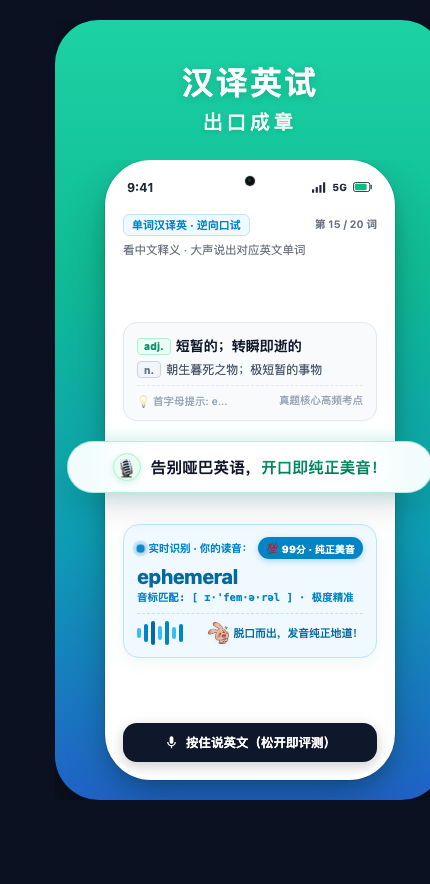
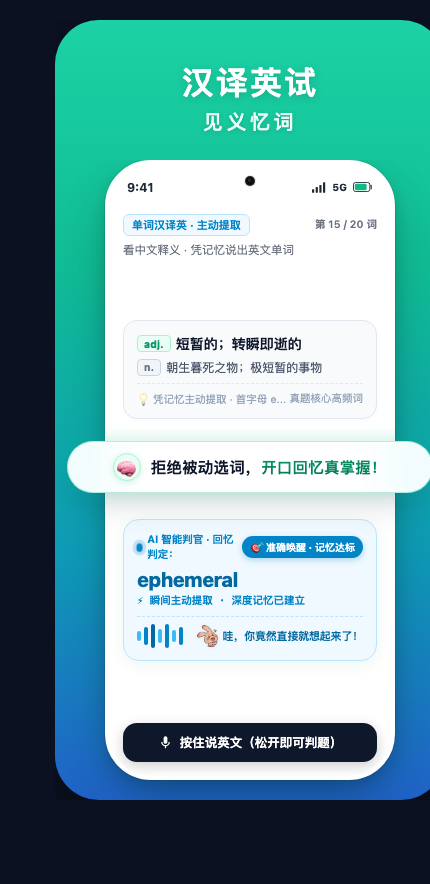
feat: update app store screen 7 preview copy and assets for active vocabulary recall

diff --git a/design/ui/app_store_minimal_clean_preview.html b/design/ui/app_store_minimal_clean_preview.html
@@ -1480,11 +1480,11 @@
         </div>
       </div>
 
-      <!-- 海报 7: 汉译英试 · 出口成章 -->
+      <!-- 海报 7: 汉译英试 · 见义忆词 -->
       <div class="poster-card" id="card-7">
         <div class="poster-header">
           <h2 class="p-title" id="p7-title">汉译英试</h2>
-          <div class="p-subtitle" id="p7-sub">出口成章</div>
+          <div class="p-subtitle" id="p7-sub">见义忆词</div>
         </div>
 
         <div class="poster-phone-stage">
@@ -1503,10 +1503,10 @@
               <div class="sentence-trans-stage">
                 <div>
                   <div style="display: flex; justify-content: space-between; align-items: center;">
-                    <span style="font-size: 11px; color: #0284C7; font-weight: 700; background: #F0F9FF; border: 1px solid #BAE6FD; padding: 2px 8px; border-radius: 6px;">单词汉译英 · 逆向口试</span>
+                    <span style="font-size: 11px; color: #0284C7; font-weight: 700; background: #F0F9FF; border: 1px solid #BAE6FD; padding: 2px 8px; border-radius: 6px;">单词汉译英 · 主动提取</span>
                     <span style="font-size: 10.5px; color: #6B7280; font-weight: 600;">第 15 / 20 词</span>
                   </div>
-                  <div style="font-size: 11.5px; color: #6B7280; margin-top: 6px;">看中文释义 · 大声说出对应英文单词</div>
+                  <div style="font-size: 11.5px; color: #6B7280; margin-top: 6px;">看中文释义 · 凭记忆说出英文单词</div>
                 </div>
 
                 <!-- 题目：中文释义卡片 -->
@@ -1520,19 +1520,19 @@
                     <span style="font-size: 12px; color: #475569;">朝生暮死之物；极短暂的事物</span>
                   </div>
                   <div style="margin-top: 7px; padding-top: 6px; border-top: 1px dashed #E2E8F0; display: flex; justify-content: space-between; align-items: center; font-size: 10.5px; color: #94A3B8;">
-                    <span>💡 首字母提示: e...</span>
-                    <span>真题核心高频考点</span>
+                    <span>💡 凭记忆主动提取 · 首字母 e...</span>
+                    <span>真题核心高频词</span>
                   </div>
                 </div>
 
-                <!-- 语音发音与英文评测卡片 -->
+                <!-- 语音作答与智能裁判卡片 -->
                 <div class="sentence-asr-result-card" style="background: #F0F9FF; border-color: #BAE6FD;">
                   <div style="display: flex; justify-content: space-between; align-items: center;">
                     <div style="display: flex; align-items: center; gap: 5px;">
                       <span class="asr-live-dot" style="background: #0284C7; box-shadow: 0 0 0 3px rgba(2, 132, 199, 0.2);"></span>
-                      <span style="font-size: 10.5px; color: #0284C7; font-weight: 700;">实时识别 · 你的读音：</span>
+                      <span style="font-size: 10.5px; color: #0284C7; font-weight: 700;">AI 智能判官 · 回忆判定：</span>
                     </div>
-                    <span class="score-badge" style="background: #0284C7; box-shadow: 0 2px 6px rgba(2, 132, 199, 0.3); white-space: nowrap;">💯 99分 · 纯正美音</span>
+                    <span class="score-badge" style="background: #0284C7; box-shadow: 0 2px 6px rgba(2, 132, 199, 0.3); white-space: nowrap;">🎯 准确唤醒 · 记忆达标</span>
                   </div>
 
                   <div style="margin: 6px 0 4px;">
@@ -1540,7 +1540,7 @@
                       ephemeral
                     </div>
                     <div style="font-size: 10.5px; color: #0284C7; font-weight: 600; font-family: ui-monospace, monospace; margin-top: 2px; white-space: nowrap;">
-                      音标匹配: [ ɪ·'fem·ə·rəl ] · 极度精准
+                      ⚡ 瞬间主动提取 · 深度记忆已建立
                     </div>
                   </div>
 
@@ -1556,7 +1556,7 @@
                     </div>
                     <div style="display: flex; align-items: center; gap: 4px;">
                       <img src="assets/rabbit_surprise.png" style="width: 22px; height: 22px; object-fit: contain; flex-shrink: 0; filter: drop-shadow(0 1px 2px rgba(0,0,0,0.06));" alt="惊喜" />
-                      <span style="font-size: 11px; color: #0369A1; font-weight: 800; letter-spacing: -0.2px; white-space: nowrap;">脱口而出，发音纯正地道！</span>
+                      <span style="font-size: 11px; color: #0369A1; font-weight: 800; letter-spacing: -0.2px; white-space: nowrap;">哇，你竟然直接就想起来了！</span>
                     </div>
                   </div>
                 </div>
@@ -1564,7 +1564,7 @@
                 <!-- 底部操作按钮：按住说英文 -->
                 <div class="speak-action-btn" style="background: #0F172A;">
                   <svg width="15" height="15" viewBox="0 0 24 24" fill="currentColor"><path d="M12 14c1.66 0 3-1.34 3-3V5c0-1.66-1.34-3-3-3S9 3.34 9 5v6c0 1.66 1.34 3 3 3z"/><path d="M17 11c0 2.76-2.24 5-5 5s-5-2.24-5-5H5c0 3.53 2.61 6.43 6 6.92V21h2v-3.08c3.39-.49 6-3.39 6-6.92h-2z"/></svg>
-                  <span>按住说英文（松开即评测）</span>
+                  <span>按住说英文（松开即可判题）</span>
                 </div>
               </div>
             </div>
@@ -1573,8 +1573,8 @@
 
           <!-- 中央直击人心大横幅 07 -->
           <div class="impact-banner">
-            <span class="banner-badge">🎙</span>
-            <span class="banner-text">告别哑巴英语，<span class="highlight">开口即纯正美音！</span></span>
+            <span class="banner-badge">🧠</span>
+            <span class="banner-text">拒绝被动选词，<span class="highlight">开口回忆真掌握！</span></span>
           </div>
         </div>
       </div>
@@ -1591,7 +1591,7 @@
         p4Title: '语音答题', p4Sub: '开口成诵',
         p5Title: '词单导入', p5Sub: '随心定制',
         p6Title: '英译汉试', p6Sub: '即视即译',
-        p7Title: '汉译英试', p7Sub: '出口成章'
+        p7Title: '汉译英试', p7Sub: '见义忆词'
       },
       b: {
         p1Title: '泡泡星云', p1Sub: '过目成星',
@@ -1600,7 +1600,7 @@
         p4Title: '例句译说', p4Sub: '开口即答',
         p5Title: '自主题库', p5Sub: '一键导入',
         p6Title: '英译汉模', p6Sub: '说出中文',
-        p7Title: '汉译英模', p7Sub: '开口说词'
+        p7Title: '汉译英模', p7Sub: '秒判对错'
       }
     };
 
